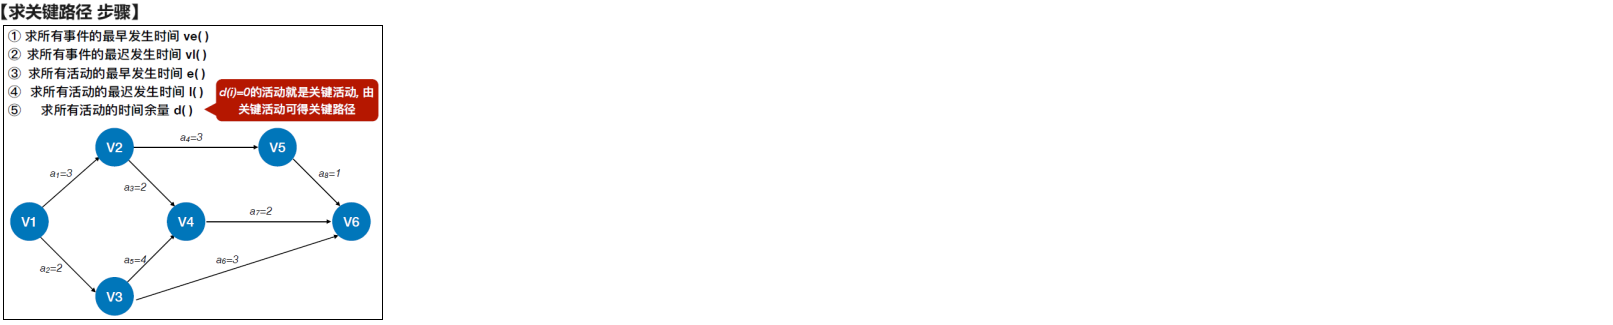
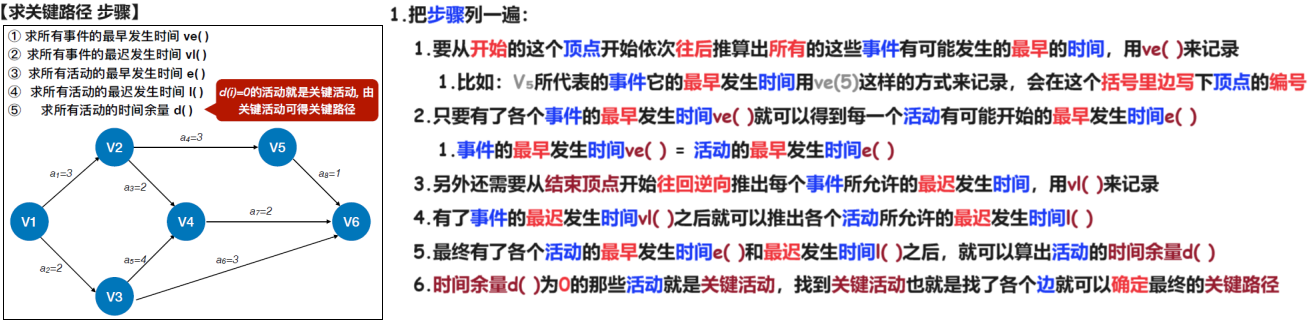
240329

diff --git a/01 初试/02 DS/02 24 王道 基础/06 图/04 图的应用/07 关键路径 240330/02 Doc.md b/01 初试/02 DS/02 24 王道 基础/06 图/04 图的应用/07 关键路径 240330/02 Doc.md
@@ -15,3 +15,9 @@
 
 
 # 03 求关键路径 步骤
+
+<img src="https://cvp.oss-cn-shanghai.aliyuncs.com/picgo/202403301007745.png" alt="image-20240330100724614" style="zoom:50%;" />
+
+
+
+# 04 
